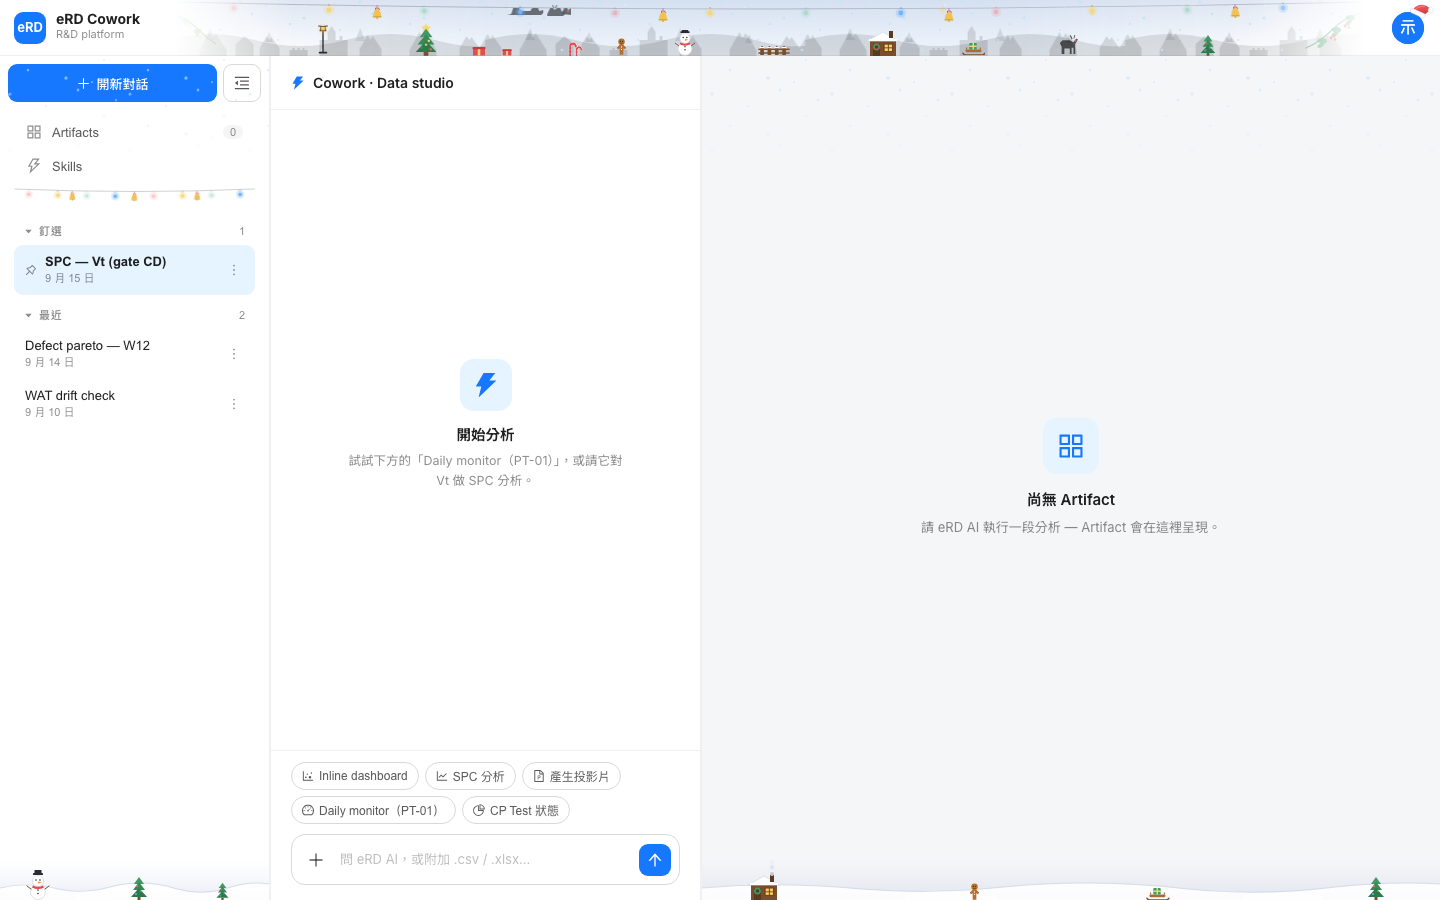
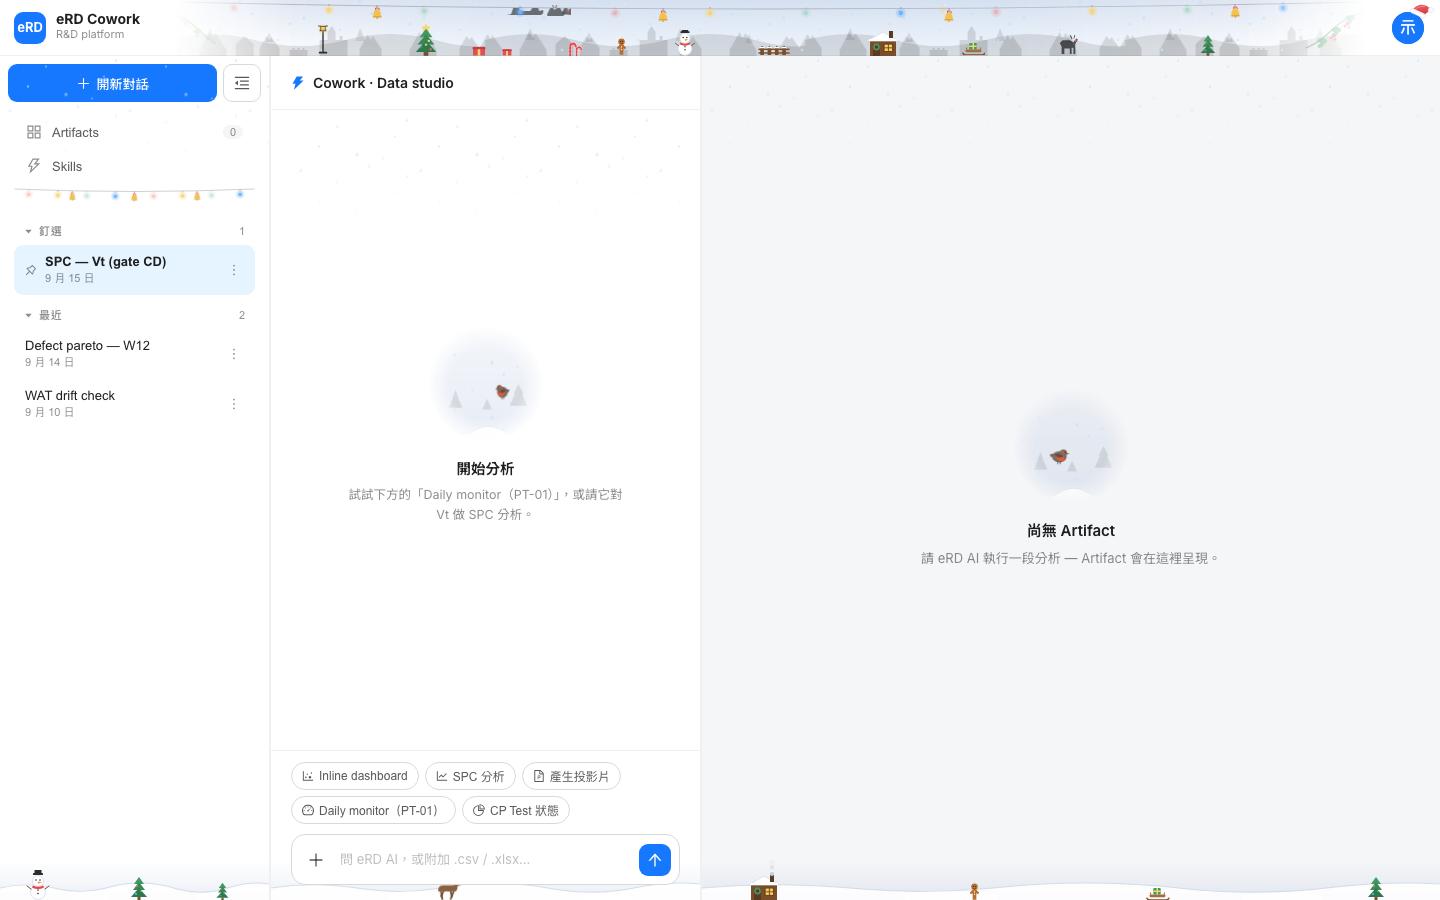
chore(shots): 第二版截圖——地面連過 composer、四扇圓窗

Changed region(s): [[0.25, 0.4044, 0.4375, 0.5911], [0.625, 0.4667, 0.8438, 0.6222]]

diff --git a/docs/festive-shots/README.md b/docs/festive-shots/README.md
@@ -1,33 +1,37 @@
-# 節慶裝飾截圖（2026-09-18，臨時 branch，看完即刪）
+# 節慶裝飾截圖（2026-09-18 第二版，臨時 branch，看完即刪）
 
-對應 commit 51eb0a7「節慶裝飾收成一個世界」。假資料是 repo 既有的虛構值。
+對應 commit 60c9c12。這一版改了兩件事：對話欄的地面從 composer 後面穿過（不再斷層）；圓窗留下，畫法改成同一個世界的，四個節日各一隻生物。
 
 ## 整頁
 
 | | |
 |---|---|
 | 聖誕 | ![](01-christmas-whole-page.png) |
-| 聖誕深色 | ![](02-christmas-dark-whole-page.png) |
-| 新年 | ![](03-lunarNewYear-whole-page.png) |
-| 萬聖節 | ![](04-halloween-whole-page.png) |
-| 中秋 | ![](05-midAutumn-whole-page.png) |
-| 收合欄 | ![](06-halloween-collapsed-rail.png) |
+| 新年 | ![](02-lunarNewYear-whole-page.png) |
+| 萬聖節 | ![](03-halloween-whole-page.png) |
+| 中秋 | ![](04-midAutumn-whole-page.png) |
 
-## 角色走過整條地面
+## 地面連過 composer 後面
 
 | | |
 |---|---|
-| 馴鹿在側邊欄 | ![](10-walker-in-rail.png) |
-| 馴鹿從對話欄後面走出來 | ![](11-walker-out-from-behind-thread-pane.png) |
-| 舞獅同一個位置 | ![](12-lion-out-from-behind-thread-pane.png) |
-| 馴鹿在 Artifact 地面 | ![](13-reindeer-on-artifact-floor.png) |
-| 黑貓在 Artifact 地面 | ![](14-cat-on-artifact-floor.png) |
+| 聖誕 | ![](10-floor-behind-composer-christmas.png) |
+| 新年 | ![](11-floor-behind-composer-lunarNewYear.png) |
 
-## 點擊的瞬間
+## 圓窗：同一片天氣、同一條地，各住一隻
 
 | | |
 |---|---|
-| 大鍋冒泡 | ![](20-click-cauldron-bubbles.png) |
-| 茶壺冒煙 | ![](21-click-teapot-steam.png) |
-| 鼓槌敲擊 | ![](22-click-drum-beat.png) |
-| 薑餅人跳 | ![](23-click-gingerbread-jump.png) |
+| 新年：錦鯉 | ![](20-window-koi.png) |
+| 聖誕：知更鳥 | ![](21-window-robin.png) |
+| 萬聖節：烏鴉 | ![](22-window-crow.png) |
+| 中秋：月裡的蟾蜍 | ![](23-window-toad.png) |
+
+## 出窗、橫越
+
+| | |
+|---|---|
+| 錦鯉剛出窗，玻璃留下一圈 | ![](30-koi-leaving.png) |
+| 知更鳥飛過 Artifact 面板 | ![](31-robin-crossing.png) |
+| 錦鯉橫越 | ![](32-koi-crossing.png) |
+| 蟾蜍橫越 | ![](33-toad-crossing.png) |
